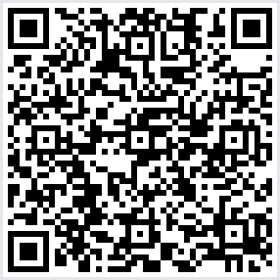
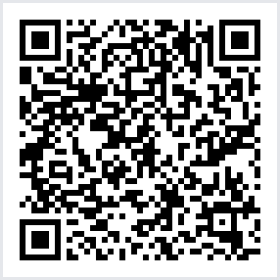
feat(ui): update header, QR code image and PIX key

diff --git a/frontend/src/components/sections/Donate.tsx b/frontend/src/components/sections/Donate.tsx
@@ -8,7 +8,7 @@ export default function Donate() {
   const [fileName, setFileName] = useState<string>("");
   const [copied, setCopied] = useState(false);
 
-  const pixKey = "institutosaojoaquim.isj@gmail.com";
+  const pixKey = "61.696.288/0001-75";
 
   const handleCopy = () => {
     navigator.clipboard.writeText(pixKey);
@@ -68,7 +68,7 @@ export default function Donate() {
           <Badge text="Faça sua Doação" bgColor="bg-emerald-600/20" textColor="text-emerald-700" />
           <h2 className="text-4xl font-bold text-gray-900">Contribua com Nossa Causa</h2>
           <p className="mt-2 text-gray-700 max-w-2xl mx-auto">
-            Você pode fazer sua doação pelo QR code abaixo. Quer receber um recibo simples? Preencha o formulário e aguarde o contato da ONG solicitando o comprovante de doação.
+            Você pode fazer sua doação pelo QR code abaixo ou através da chave Pix informada. Quer receber um recibo simples? Preencha o formulário e aguarde o contato da ONG solicitando o comprovante de doação.
           </p>
         </div>
 
@@ -78,7 +78,7 @@ export default function Donate() {
             <h2 className="text-gray-700 font-medium mb-2 text-center">Doe pelo PIX</h2>
             <img src="/qrcode.png" alt="QR Code de Doação" className="w-60 h-60 object-contain" />
             <p className="text-gray-700 text-center">
-              Escaneie o QR code acima para fazer sua doação de forma rápida e segura.
+              Escaneie o QR code acima ou copie a chave Pix abaixo para fazer sua doação de forma rápida e segura.
             </p>
             <div className="mt-4 flex flex-col sm:flex-row sm:items-center sm:justify-center gap-2 w-full">
               <input
@@ -170,10 +170,6 @@ export default function Donate() {
             </form>
           </div>
         </div>
-
-        <p className="text-gray-500 text-sm text-justify mt-4">
-          *No momento, as doações estão sendo recebidas temporariamente pela coordenadora administrativa da ONG, Tatiana Araújo de Sousa. Todas as contribuições serão integralmente destinadas aos projetos da instituição. Em breve, a conta oficial da ONG estará ativa.
-        </p>
       </div>
     </section>
   );

diff --git a/frontend/src/components/layout/Header.tsx b/frontend/src/components/layout/Header.tsx
@@ -66,7 +66,6 @@ export default function Header() {
     { label: "Início", scrollId: "home" },
     { label: "Quem Somos", scrollId: "about" },
     { label: "Programas", scrollId: "projects" },
-    { label: "Conte Comigo", href: "/conte-comigo" },
     { label: "Campanhas", href: "/campaigns" },
     { label: "Voluntariado", scrollId: "volunteer" },
   ];
@@ -76,7 +75,6 @@ export default function Header() {
     { label: "Início", scrollId: "home" },
     { label: "Quem Somos", scrollId: "about" },
     { label: "Programas", scrollId: "projects" },
-    { label: "Conte Comigo", href: "/conte-comigo" },
     { label: "Campanhas", href: "/campaigns" },
     { label: "Voluntariado", scrollId: "volunteer" },
   ];
@@ -94,12 +92,6 @@ export default function Header() {
             height={120}
             className="rounded-full"
           />
-          <div className="hidden lg:flex flex-col">
-            <span className="font-bold text-lg text-gray-800">
-              Instituto São Joaquim
-            </span>
-            <span className="text-xs text-gray-400">Transformando vidas</span>
-          </div>
         </div>
 
         {/* MENU DESKTOP */}
